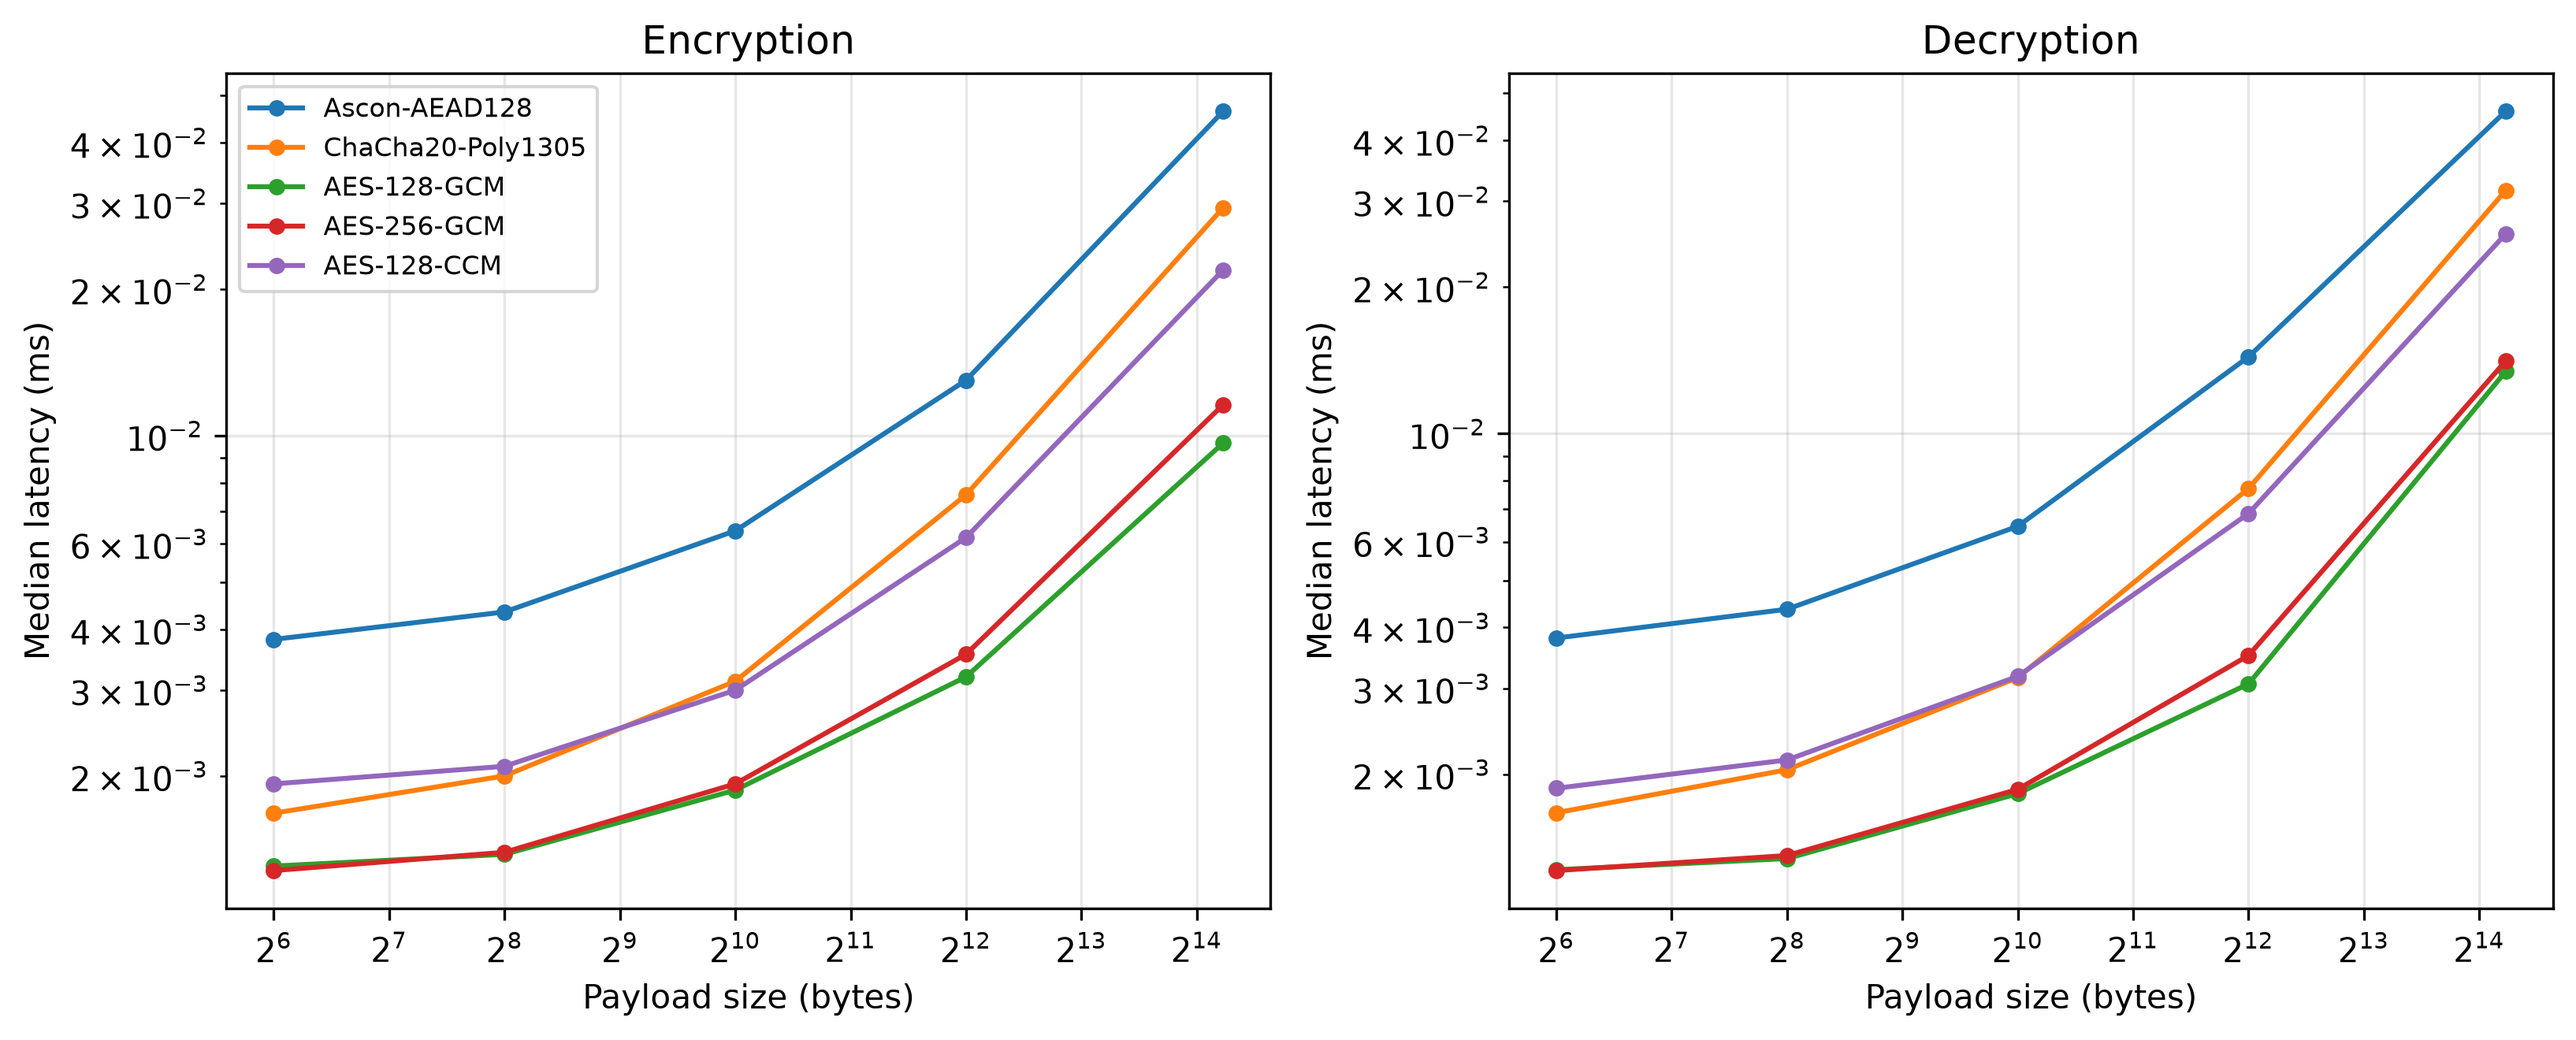
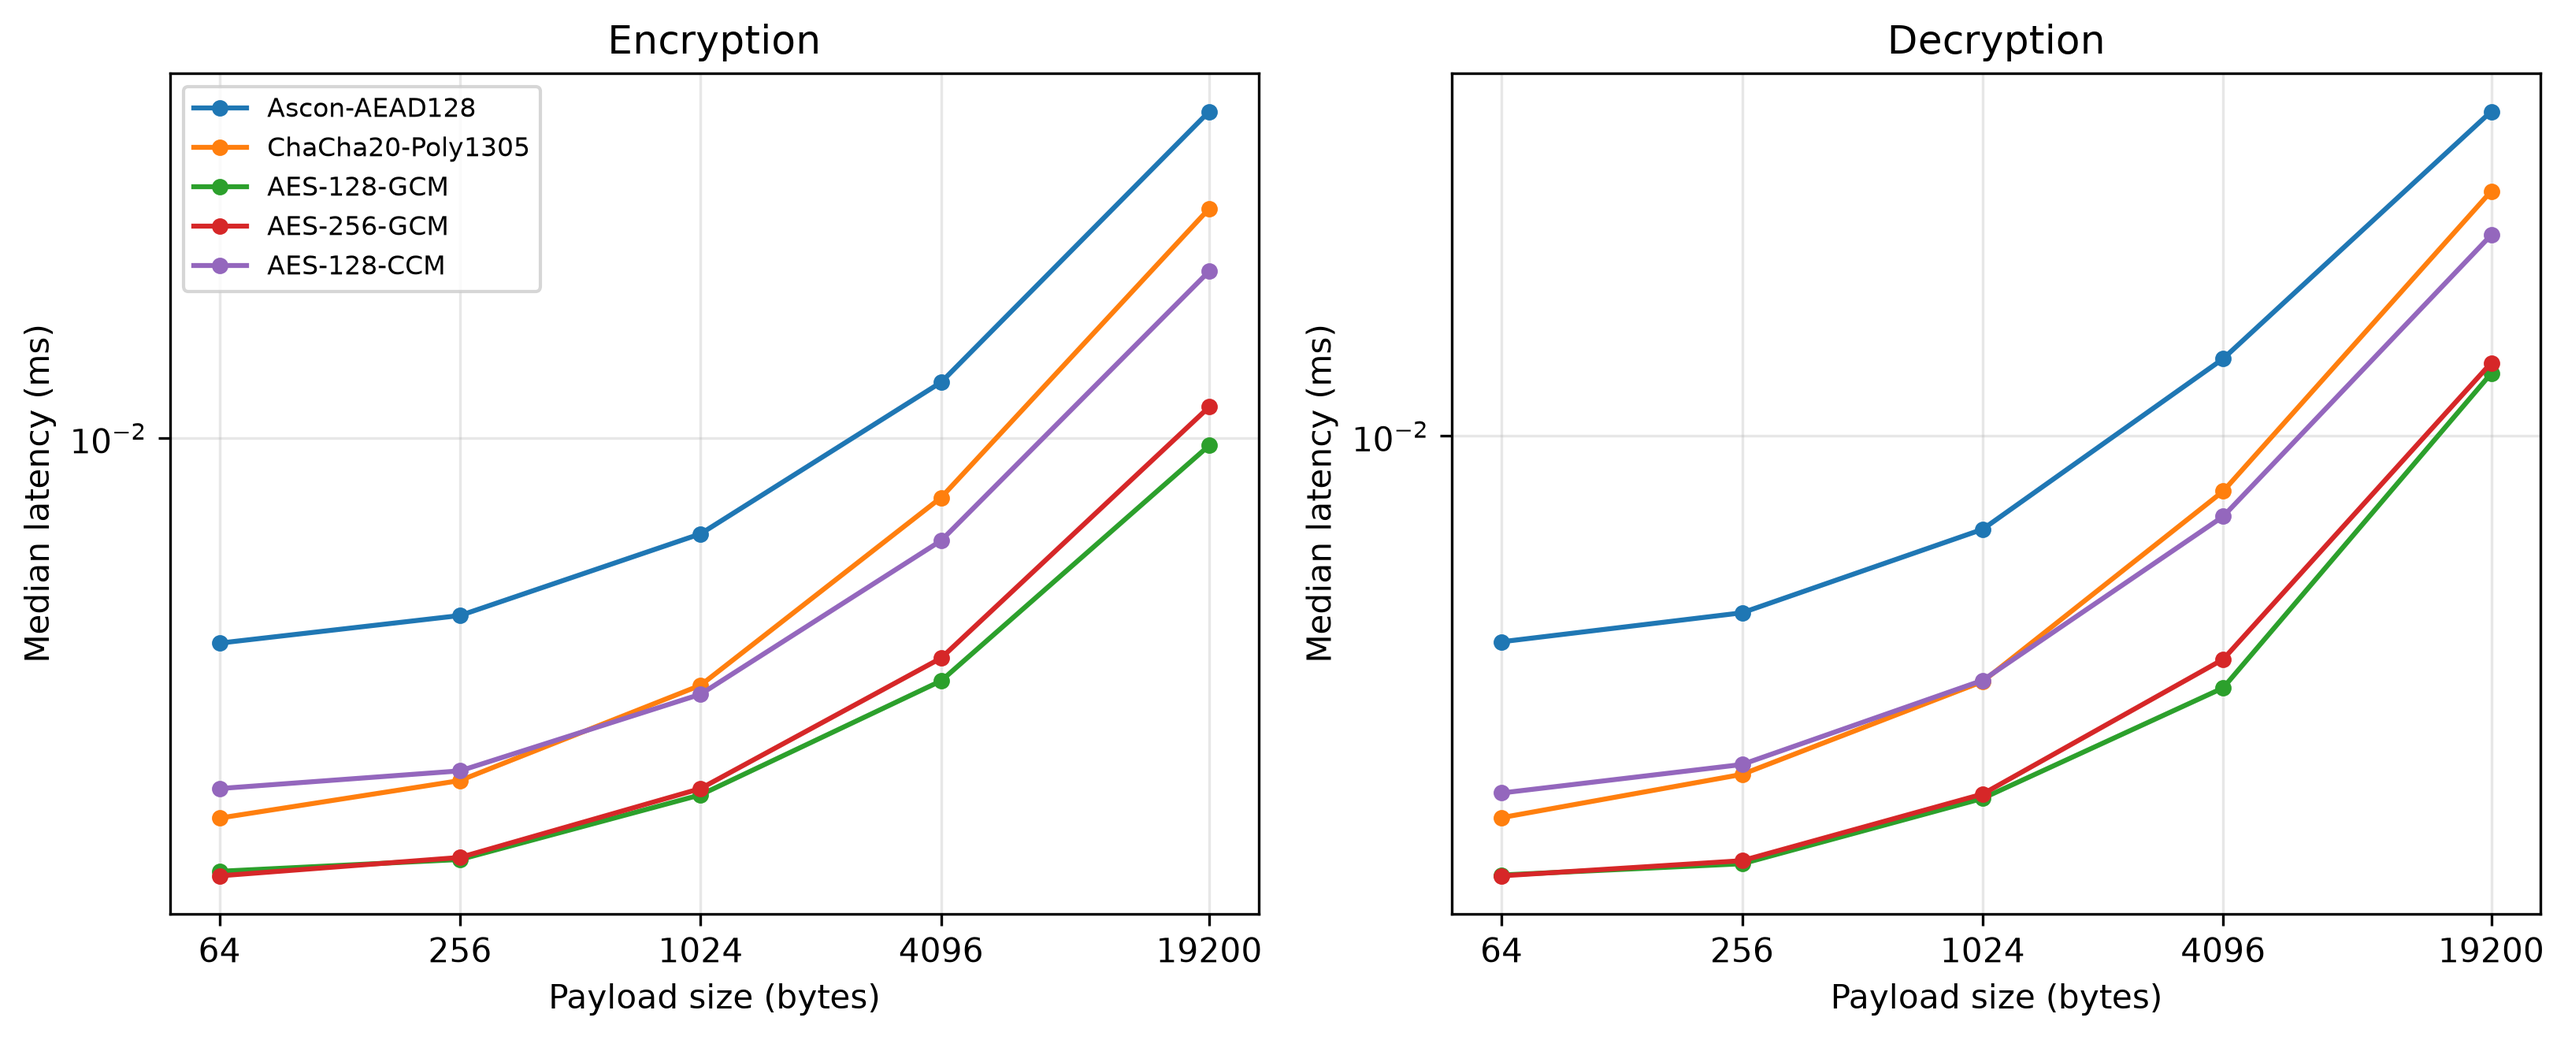
Fix x-axis tick labels on latency plot
set_xticks/set_xticklabels now show the actual payload sizes tested
instead of default log-scale power-of-two ticks; minorticks_off()
removes the unlabelled minor gridlines this created.

diff --git a/make_figures.py b/make_figures.py
@@ -32,6 +32,9 @@ def fig_latency(df, outdir):
             ax.plot(s.payload_bytes, s[col], marker="o", ms=4,
                     label=algo, color=COLORS[algo])
         ax.set_xscale("log", base=2); ax.set_yscale("log")
+        ax.set_xticks(sorted(df.payload_bytes.unique()))
+        ax.set_xticklabels([str(int(v)) for v in sorted(df.payload_bytes.unique())])
+        ax.minorticks_off()
         ax.set_xlabel("Payload size (bytes)")
         ax.set_ylabel("Median latency (ms)")
         ax.set_title(title)
